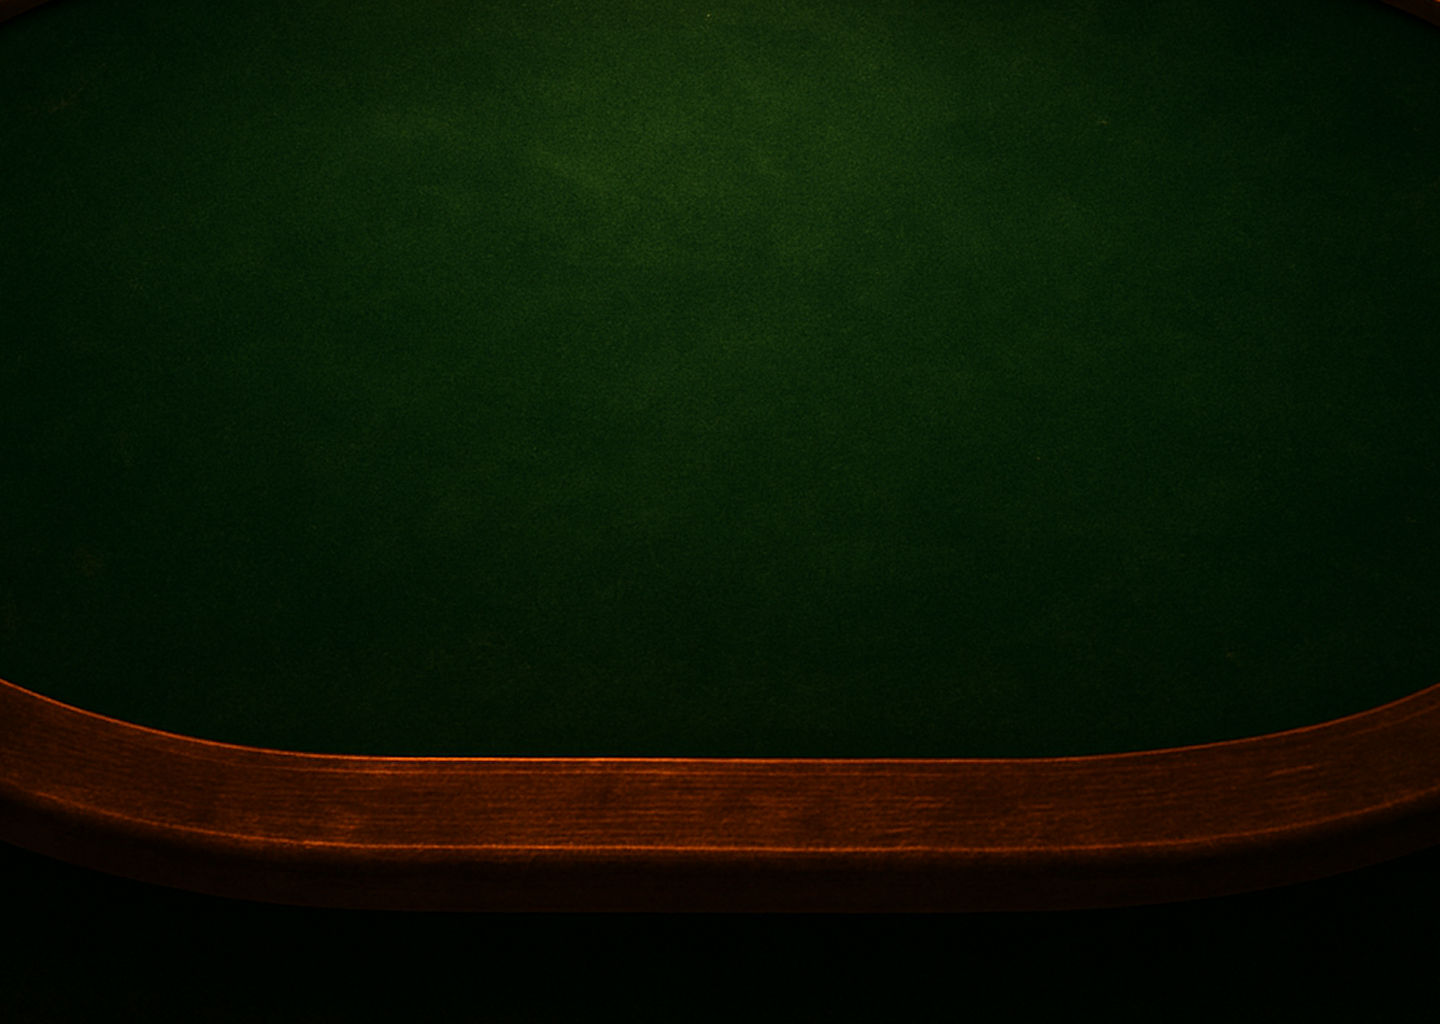
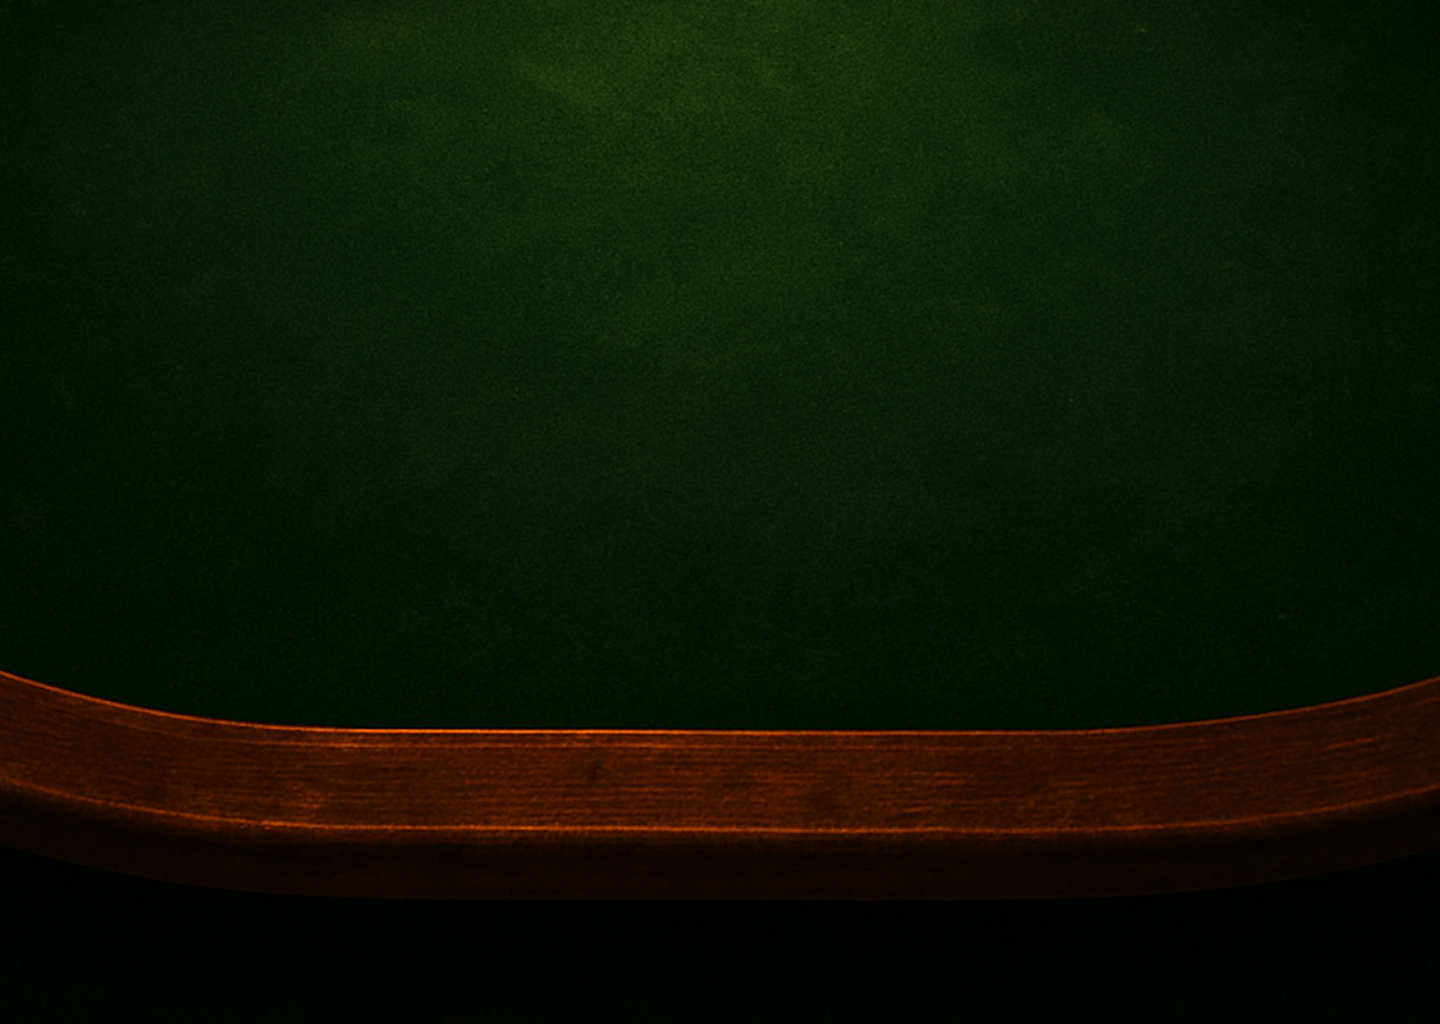
images updated & UI points updations

Changed region(s): [[0.0, 0.6562, 1.0, 0.8438], [0.0, 0.75, 0.0312, 0.7812]]

diff --git a/src/app/sit/page.js b/src/app/sit/page.js
@@ -9,8 +9,10 @@ import React from 'react'
 
 export default function page() {
   return (
-    <div className="min-h-screen h-full w-full flex bg-[url('/images/banners/banner-sit.png')] flex-col justify-end items-center bg-cover bg-center">
-        <div className="h-full z-20 layout-container pb-5 flex flex-col items-center">
+    <div className="min-h-screen h-full w-full flex relative flex-col justify-end items-center bg- bg-center">
+        <img src="/images/banners/banner-sit.png" alt="bba" className="h-full absolute w-full" />
+
+        <div className="h-full z-20 layout-container pb-6 flex flex-col items-center">
             <div className='layout-container flex items-center justify-between'>
                 <Link href="/private-table"><Button variant={"secondary"} className={"w-fit py-4 px-3 text-[32px]"}>PRIVATE TABLE</Button></Link>
                 <h2 className='heading-texts text-[120px] font-cinzel font-black text-center'>SIT & GO</h2>
@@ -77,9 +79,9 @@ export default function page() {
                 />
             </div>
            
-            <h3 className='text-[55px] normal-text-shadow uppercase font-normal font-ruso leading-none mt-5'>ENTRANCE AMOUNT</h3>
+            <h3 className='text-[55px] normal-text-shadow uppercase font-normal font-ruso leading-none mt-16'>ENTRANCE AMOUNT</h3>
             <h4 className='text-[32px] font-bold text-primary normal-text-shadow'>Min 0.3  ______ Max 0.6 $</h4>
-            <Link href="/watch-and-earn" className="bg-[url('/images/chip.svg')] bg-cover flex items-center justify-center w-[330px] h-64">
+            <Link href="/watch-and-earn" className="bg-[url('/images/chip.svg')] bg-cover flex items-center justify-center w-[330px] h-64 mt-7">
                 <p className='text-[40px] w-full font-cinzel font-black text-center leading-none -mt-4'>JOIN<br/> TABLE</p>
             </Link>
             <HomeOptions/>

diff --git a/src/app/page.js b/src/app/page.js
@@ -6,11 +6,11 @@ import Link from "next/link";
 export default function Home() {
   return (
     <div className="h-screen w-full flex flex-col justify-between items-center">
-      <img src="/images/banners/landing.png" alt="bba" className="h-screen absolute w-full aspect-video" />
+      <img src="/images/banners/landing.png" alt="bba" className="h-screen absolute w-full" />
       <HomeHeader/>
       <div className="h-full z-20 w-full flex flex-col justify-end items-center pb-10">
         <h1 className="text-[48px] font-bebas text-primary leading-none">Welcome to Liberty Poker</h1>
-        <Link href="/sit"><Button variant="primary" className="w-fit px-6 text-primary-props border-8 rounded-[29px]">PLAY NOW</Button></Link>
+        <Link href="/sit"><Button variant="primary" className="w-fit px-6 py-3.5 text-primary-props border-8 rounded-[29px]">PLAY NOW</Button></Link>
         <HomeOptions />
       </div>
     </div>

diff --git a/src/app/private-table/page.js b/src/app/private-table/page.js
@@ -58,8 +58,8 @@ export default function page() {
               <SimpleTextInput title="TABLE PROFIT" />
             </Accordion>
           </div>}
-          <Link href="/choose-rank" className="bg-[url('/images/chip.svg')] bg-cover flex items-center justify-center w-[330px] h-64">
-              <p className='text-[40px] w-full font-cinzel font-black text-center leading-none -mt-4'>JOIN<br/> TABLE</p>
+          <Link href="/choose-rank" className="bg-[url('/images/chip.svg')] bg-cover flex items-center justify-center w-[380px] h-72">
+              <p className='text-[40px] w-full font-cinzel font-black text-center leading-none -mt-0'>CREATE<br/> TABLE</p>
           </Link>
           <HomeOptions/>
         </div>

diff --git a/src/app/tournament/page.js b/src/app/tournament/page.js
@@ -82,8 +82,8 @@ export default function page() {
                     timer={true}
                 />
             </div>
-            <Link href="/watch-and-earn" className="bg-[url('/images/chip.svg')] bg-cover flex items-center justify-center w-[330px] h-64 mt-10">
-                <p className='text-[40px] w-full font-cinzel font-black text-center leading-none -mt-4'>JOIN<br/> TABLE</p>
+            <Link href="/watch-and-earn" className="bg-[url('/images/chip.svg')] bg-cover flex items-center justify-center w-[330px] h-64 mt-16">
+                <p className='text-[40px] w-full font-cinzel font-black text-center leading-none -mt-4'>JOIN<br/> NEXT</p>
             </Link>
             <HomeOptions/>
         </div>

diff --git a/src/modules/Stake/EntranceAmount.js b/src/modules/Stake/EntranceAmount.js
@@ -59,7 +59,7 @@ export default function EntranceAmount({ title, amount = [], free=false, locked=
                 )}
                 </div>
                 {free && <div className=" absolute -top-6 -right-7"><FreeBadge/></div>}
-                {locked && <div onClick={depositeModalHandler} className="w-full h-full absolute top-0 left-0 bg-[#00000080] cursor-pointer rounded-full flex items-center justify-center">
+                {locked && <div onClick={depositeModalHandler} className="w-full h-full absolute top-0 left-0 bg-[#00000080] backdrop-blur-[1px] cursor-pointer rounded-full flex items-center justify-center">
                     <Lock/>
                 </div>}
             </Button>

diff --git a/src/modules/Funds.js b/src/modules/Funds.js
@@ -2,6 +2,7 @@ import React from 'react'
 
 export default function Funds({className='text-[48px] uppercase font-normal font-bebas'}) {
   return (
-    <h2 className={`normal-text-shadow ${className} `}>FUNDS: $0.3</h2>
+    <h2 className={`normal-text-shadow ${className} `}>FUNDS: $ 0.3</h2>
   )
 }
+ 
